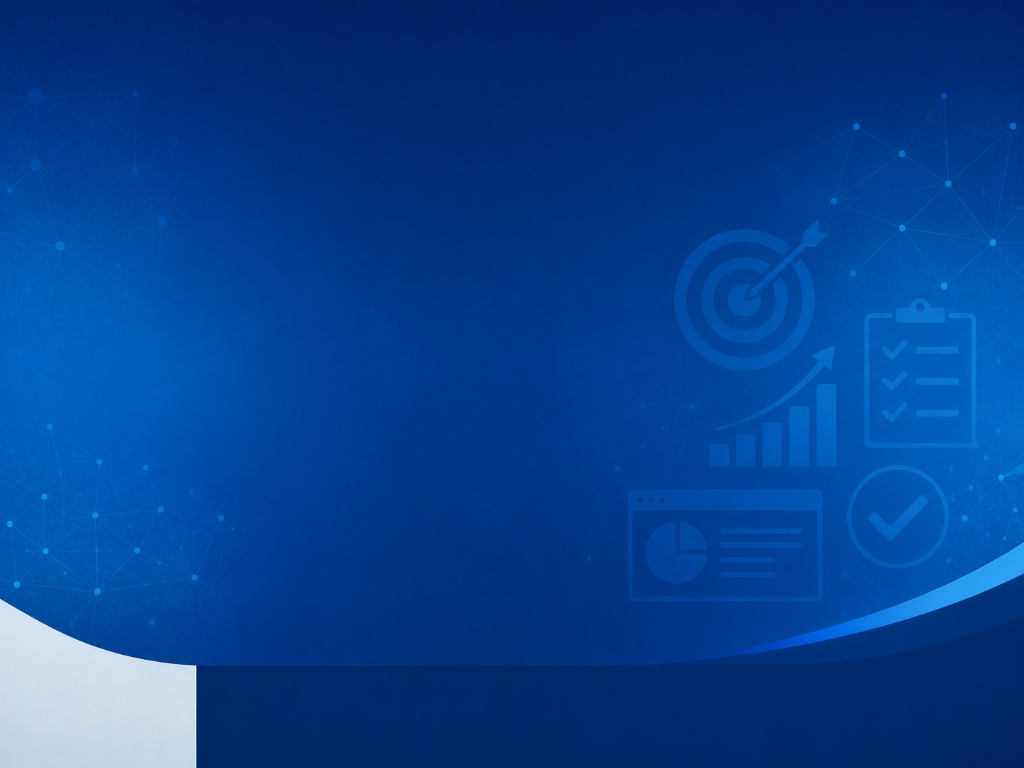
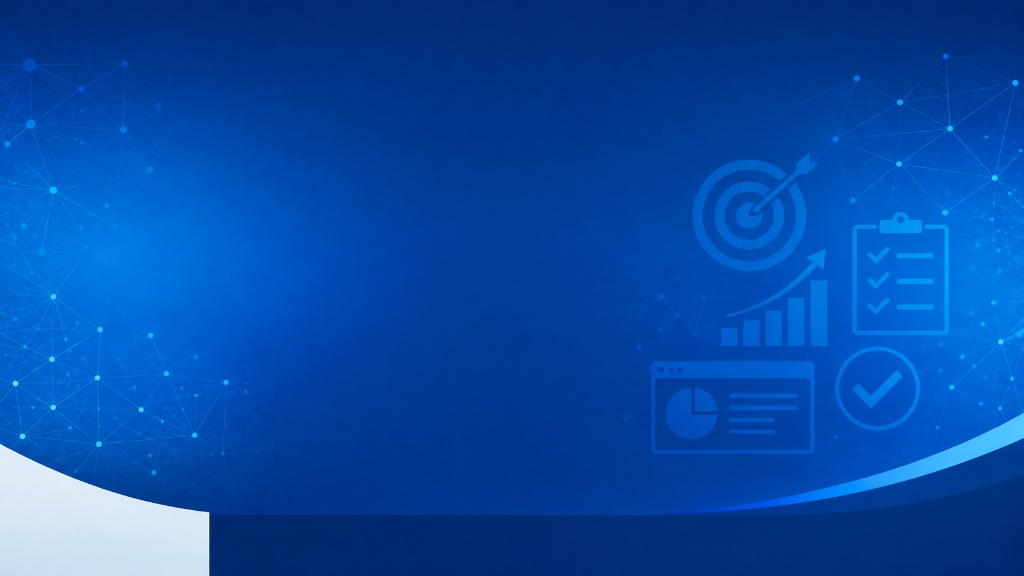
Actualizar imagen de fondo de portada con formato 16:9 completo sin cortes laterales

diff --git a/index.html b/index.html
@@ -224,7 +224,7 @@
 
         /* Portada de Inicio Fija Estilo Power BI - Canvas 16:9 con Proporciones Bloqueadas */
         #pantalla-portada {
-            background-color: #000c1e;
+            background-color: #001f4d;
             height: 100vh;
             width: 100vw;
             overflow: hidden !important;
@@ -243,7 +243,7 @@
             max-height: 100vh;
             max-width: 177.78vh; /* 16/9 = 1.7778 */
             aspect-ratio: 16 / 9;
-            background-image: url('fondo_portada.jpg');
+            background-image: url('fondo_portada.png?v=20261012_v6');
             background-size: 100% 100%;
             background-position: center;
             background-repeat: no-repeat;
